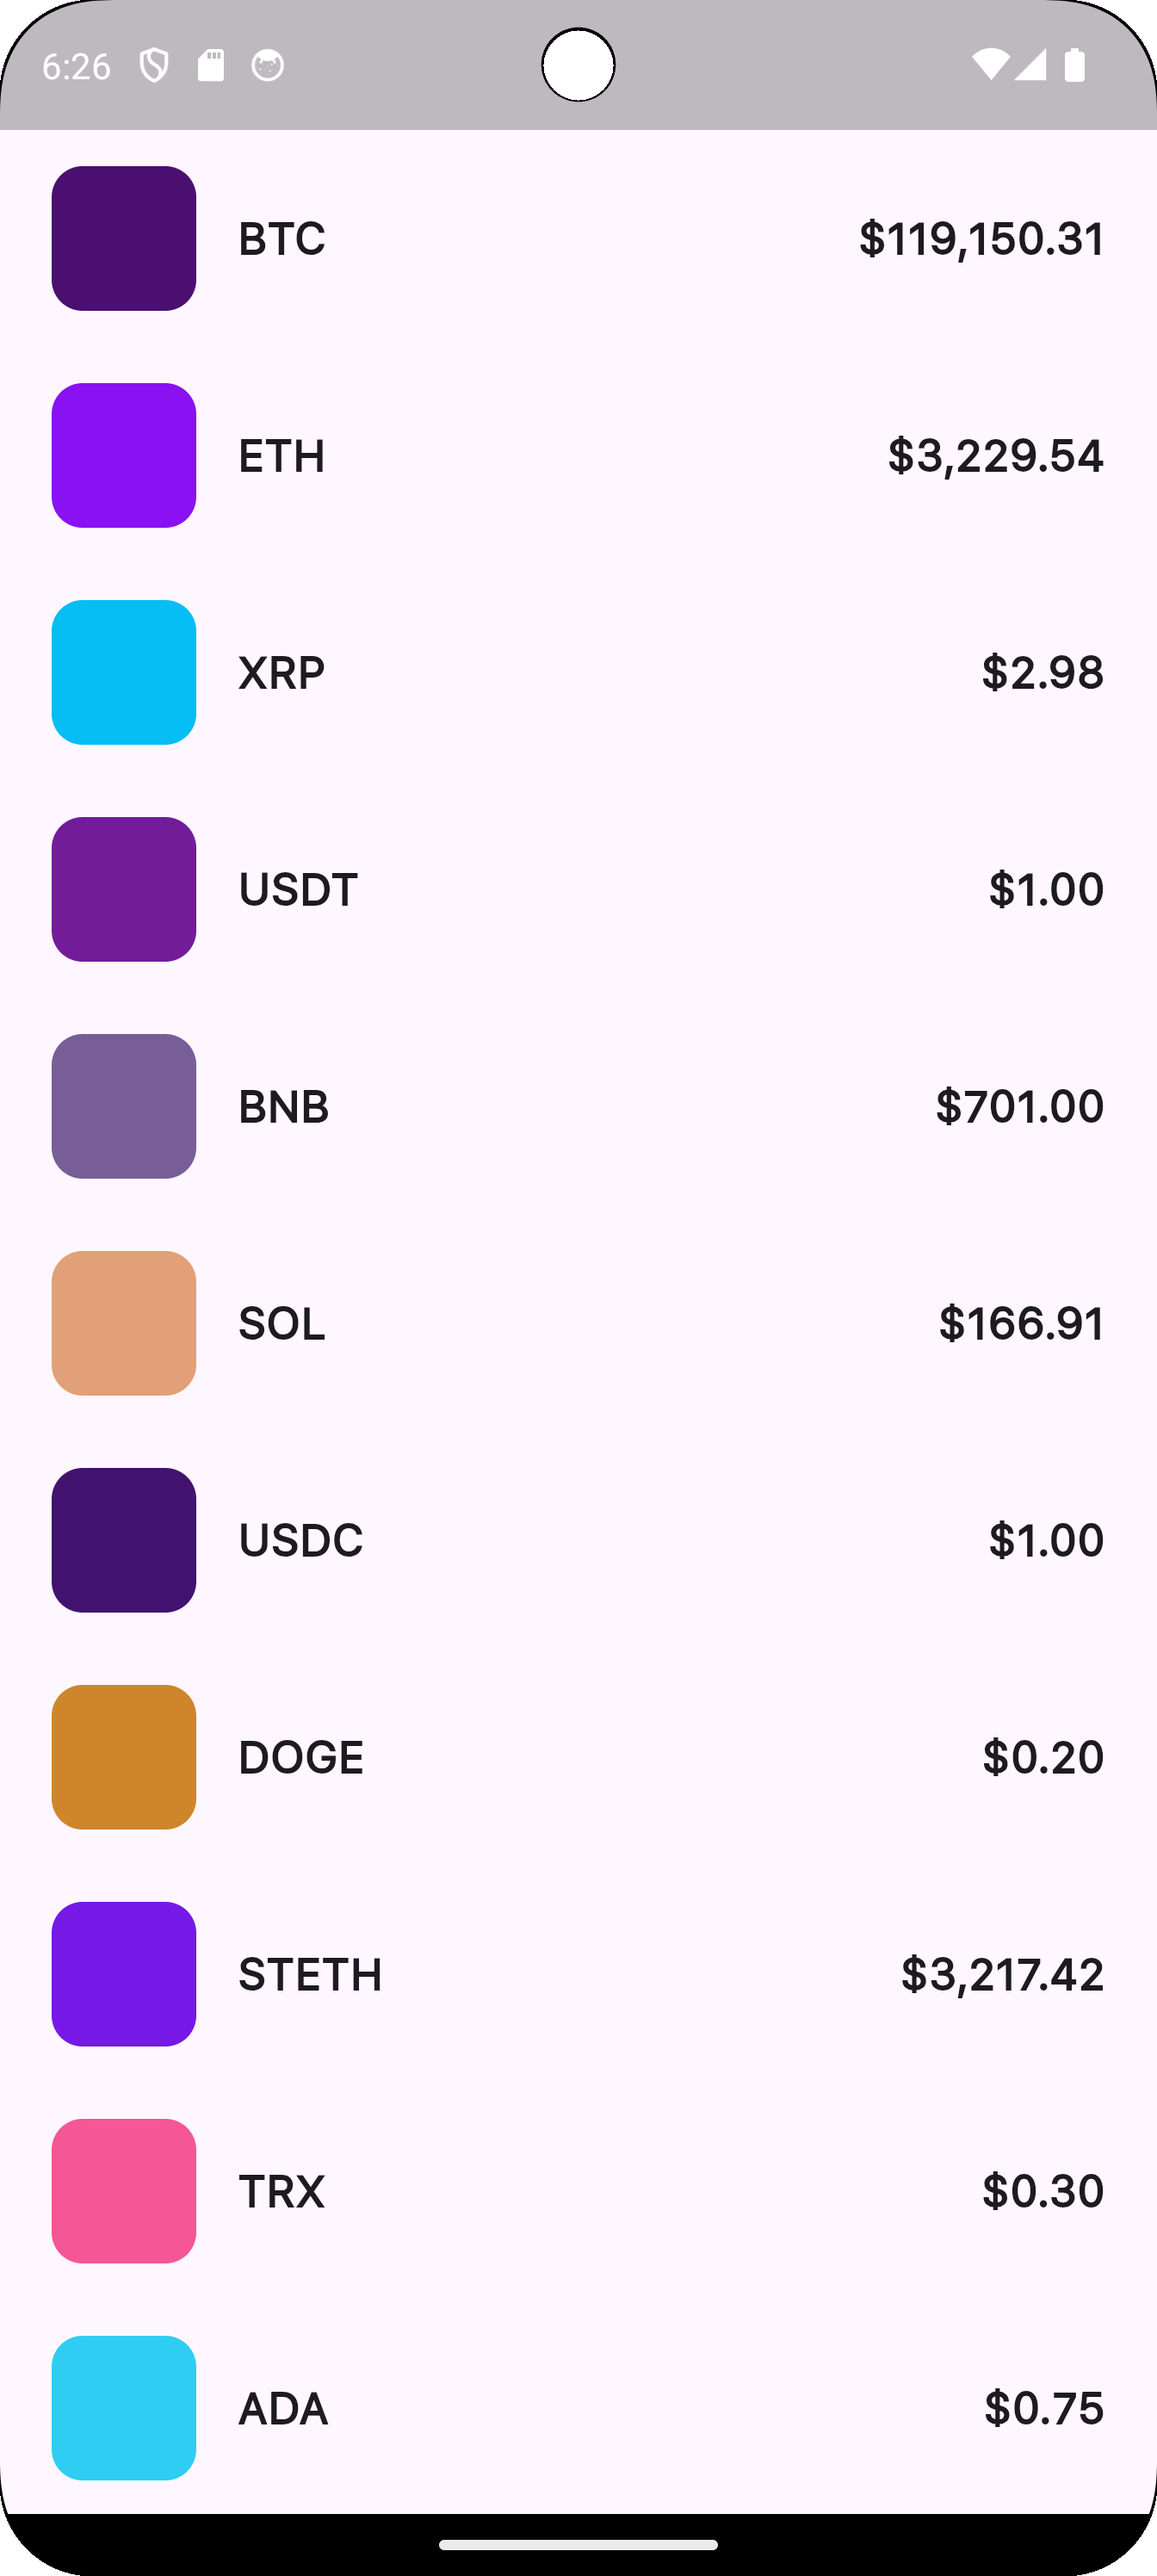
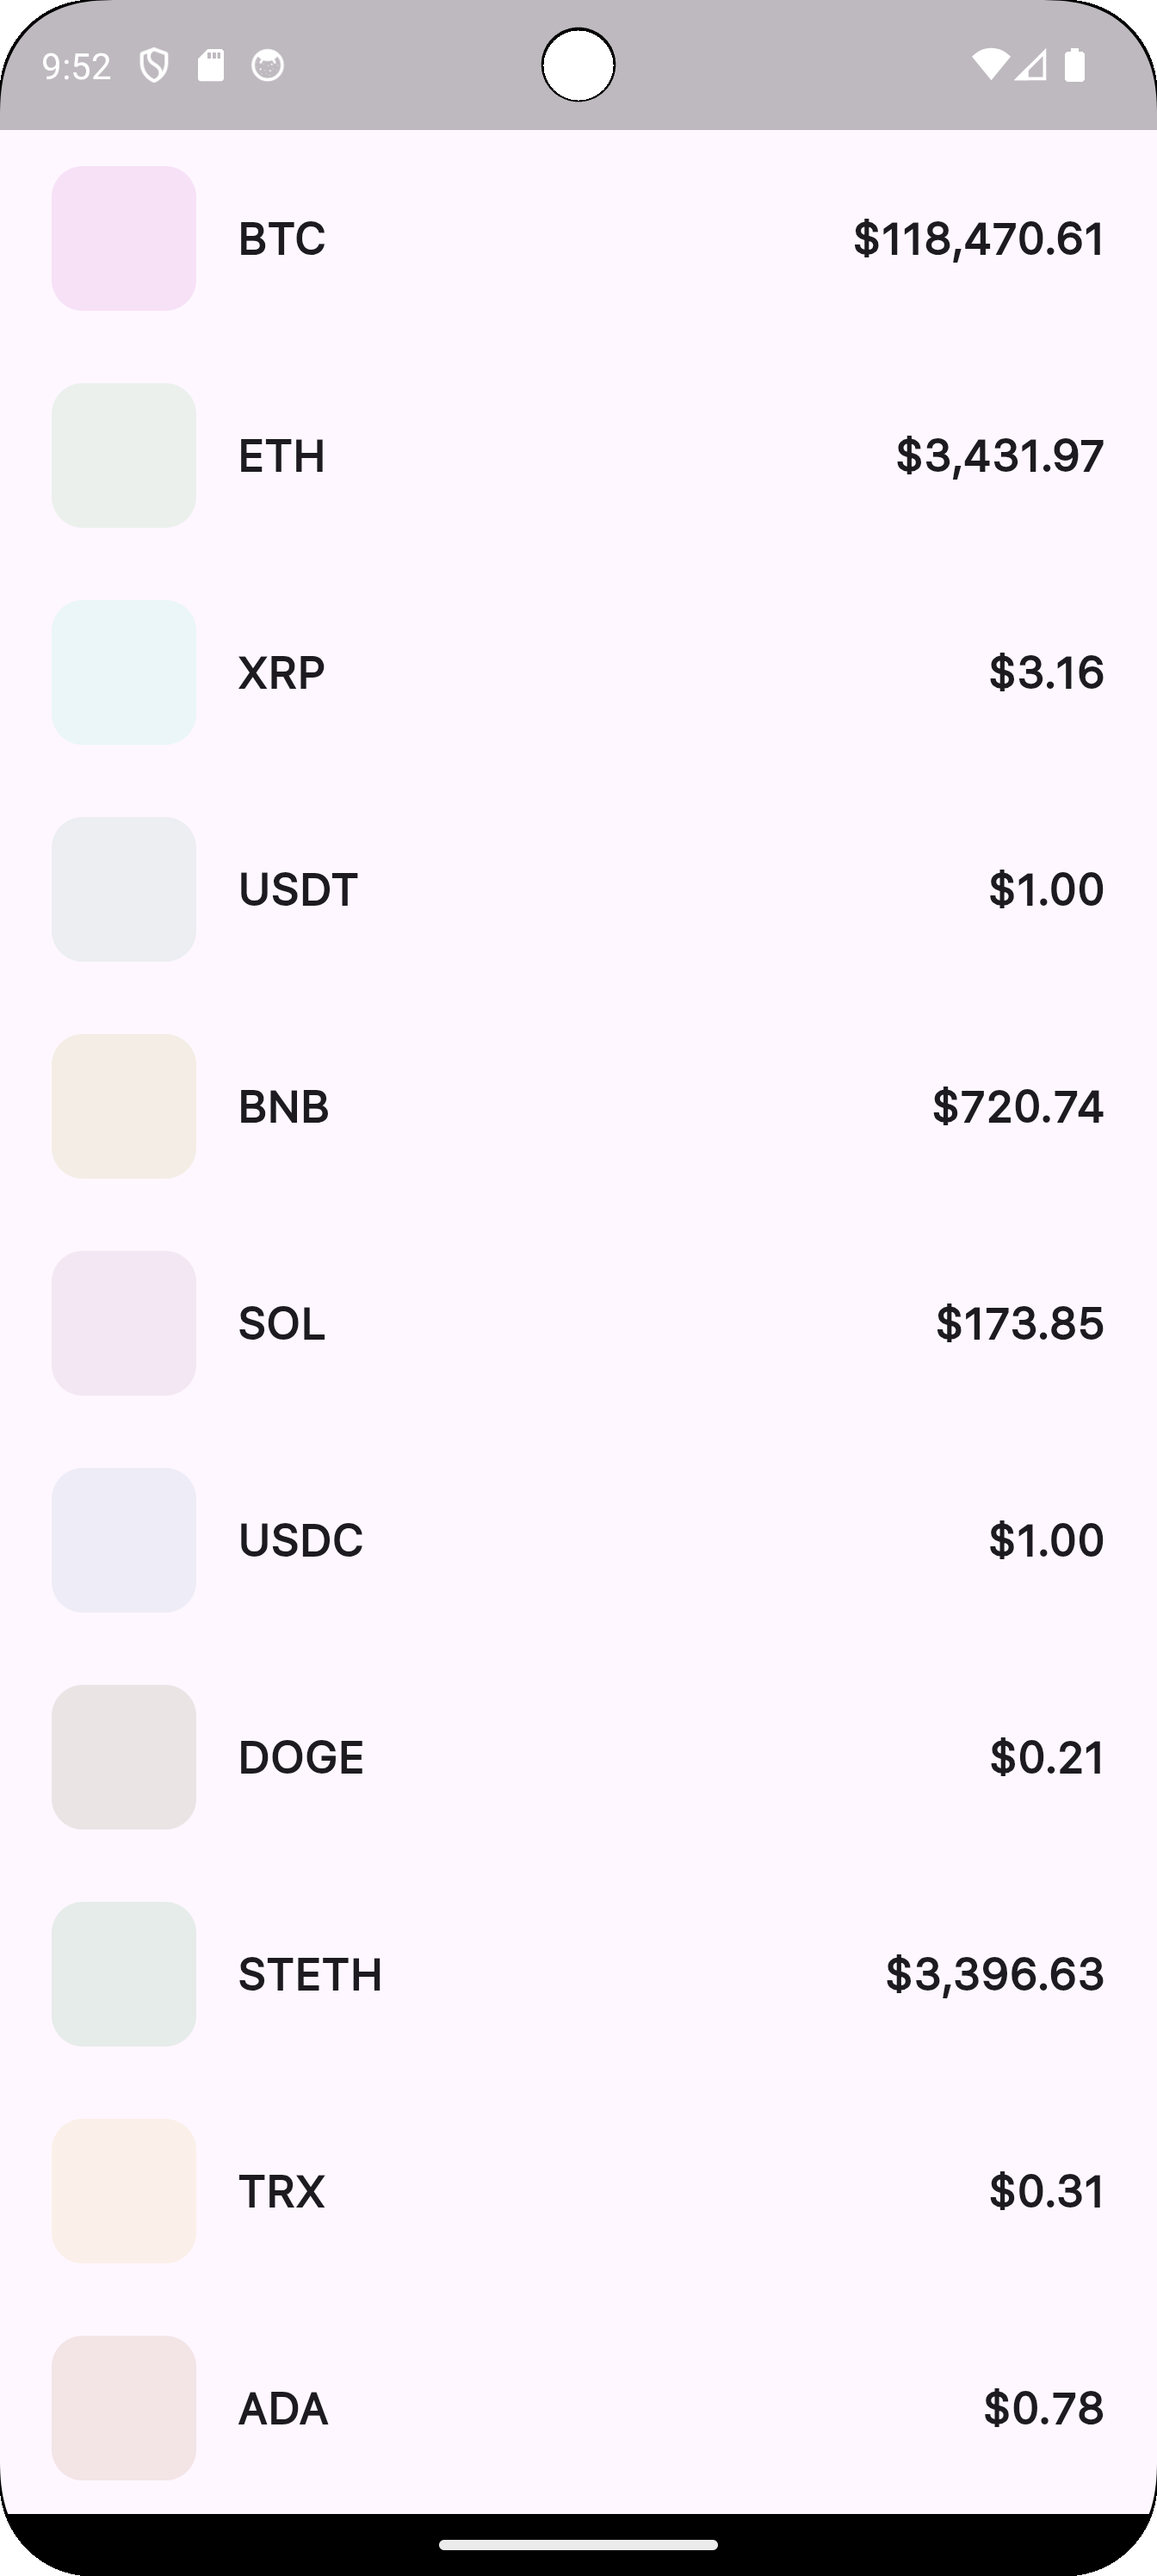
change opacity and change screenshot

diff --git a/lib/core/util/generate_color.dart b/lib/core/util/generate_color.dart
@@ -10,7 +10,7 @@ class GenerateColor {
      _random.nextInt(256),
      _random.nextInt(256),
      _random.nextInt(256),
-     1.0,
+     .1,
    );
  }
 
